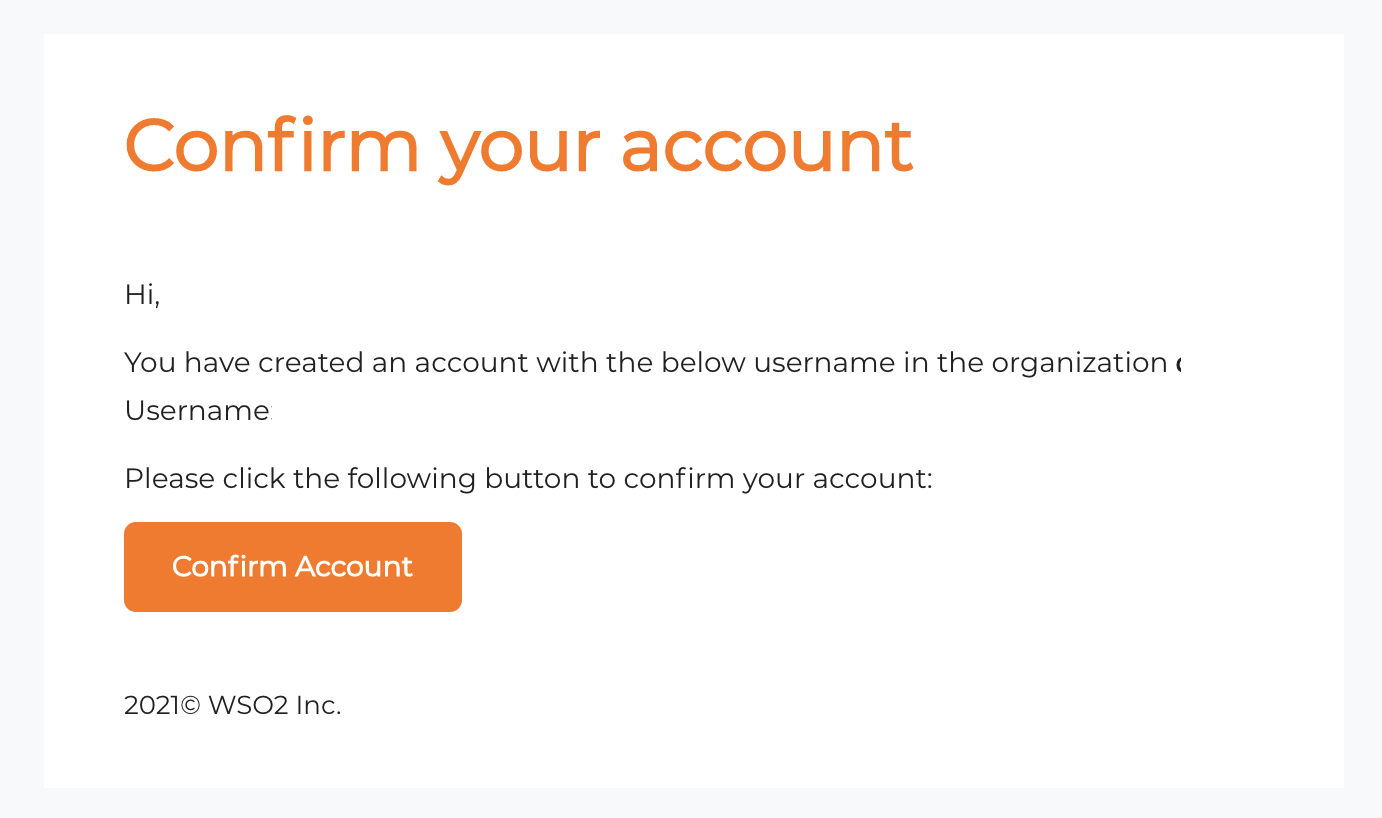
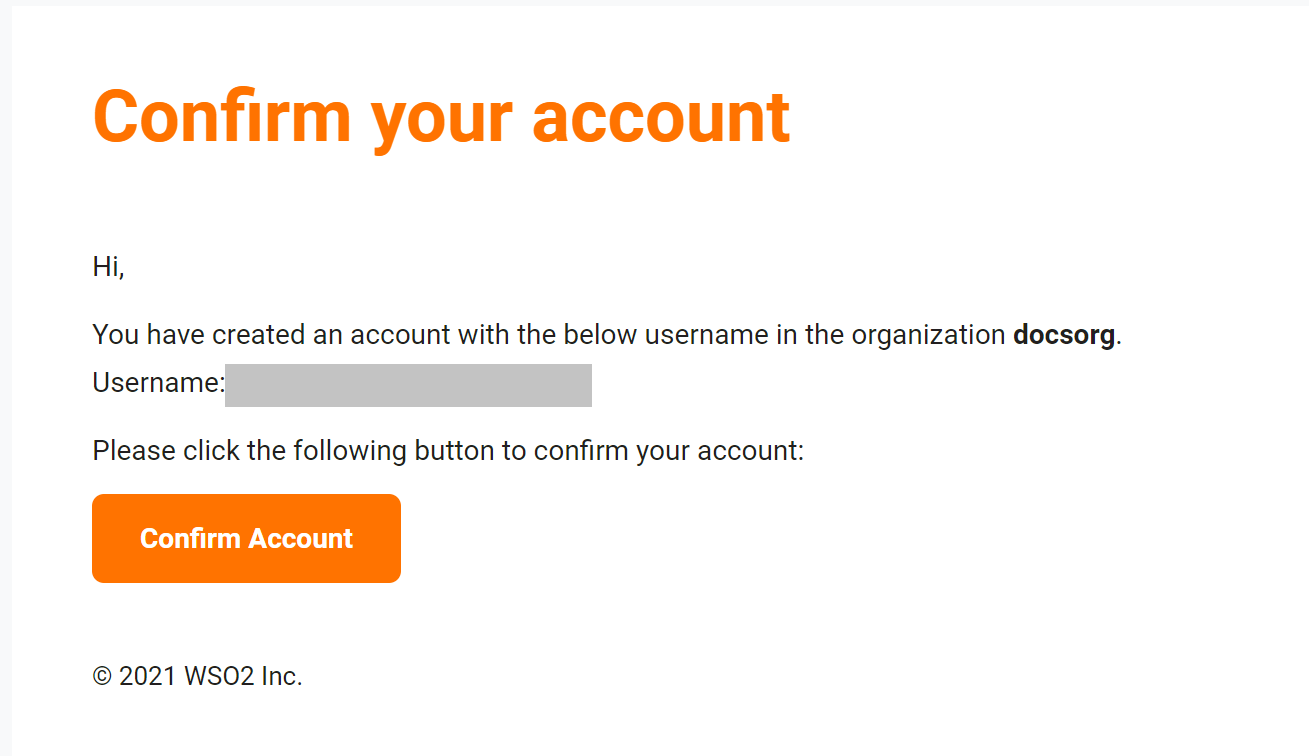
typos and screenshot updates

diff --git a/docs/guides/user-self-service/self-register.md b/docs/guides/user-self-service/self-register.md
@@ -17,7 +17,7 @@ To self-register as a customer, the user should follow these steps.
    <img :src="$withBase('/assets/img/guides/organization/self-service/customer/self-registration-enter-username.png')" alt="Self registration" width="300">
 4. Enter your details, select **I have read and understood the Privacy Policy**, and click **Sign Up**.
 5. Click **Confirm Account** in the email sent to the registered email address.
-   <img :src="$withBase('/assets/img/guides/organization/self-service/customer/account-verification-email.png')" alt="Account verification email notification">
+   <img :src="$withBase('/assets/img/guides/organization/self-service/customer/account-verification-email.png')" alt="Account verification email notification" >
     
     Note that an email will only be sent if **Account Verification** is enabled for <a :href="$withBase('/guides/user-accounts/configure-self-registration/')">self-registration</a>.
     
@@ -25,5 +25,5 @@ To self-register as a customer, the user should follow these steps.
    
     If you try to log in with an **unverified email address**, Asgardeo will show an error message saying that the account has not been verified and shows options to resend verification. This is applicable only if **Account Verification** setting is enabled in <a :href="$withBase('/guides/user-accounts/configure-self-registration/')">self registration configuration</a>. 
     
-    If you want to resend the verification email, Click **Resend** to resend the email verification appears under the error message.
+    If you have not received the confirmation email and want Asgardeo to resend the email, click **Resend** that appears under the email verification warning message.
     <img :src="$withBase('/assets/img/guides/organization/self-service/customer/login-with-unverified-email.png')" alt="Login with unverified email" width="300"> 
